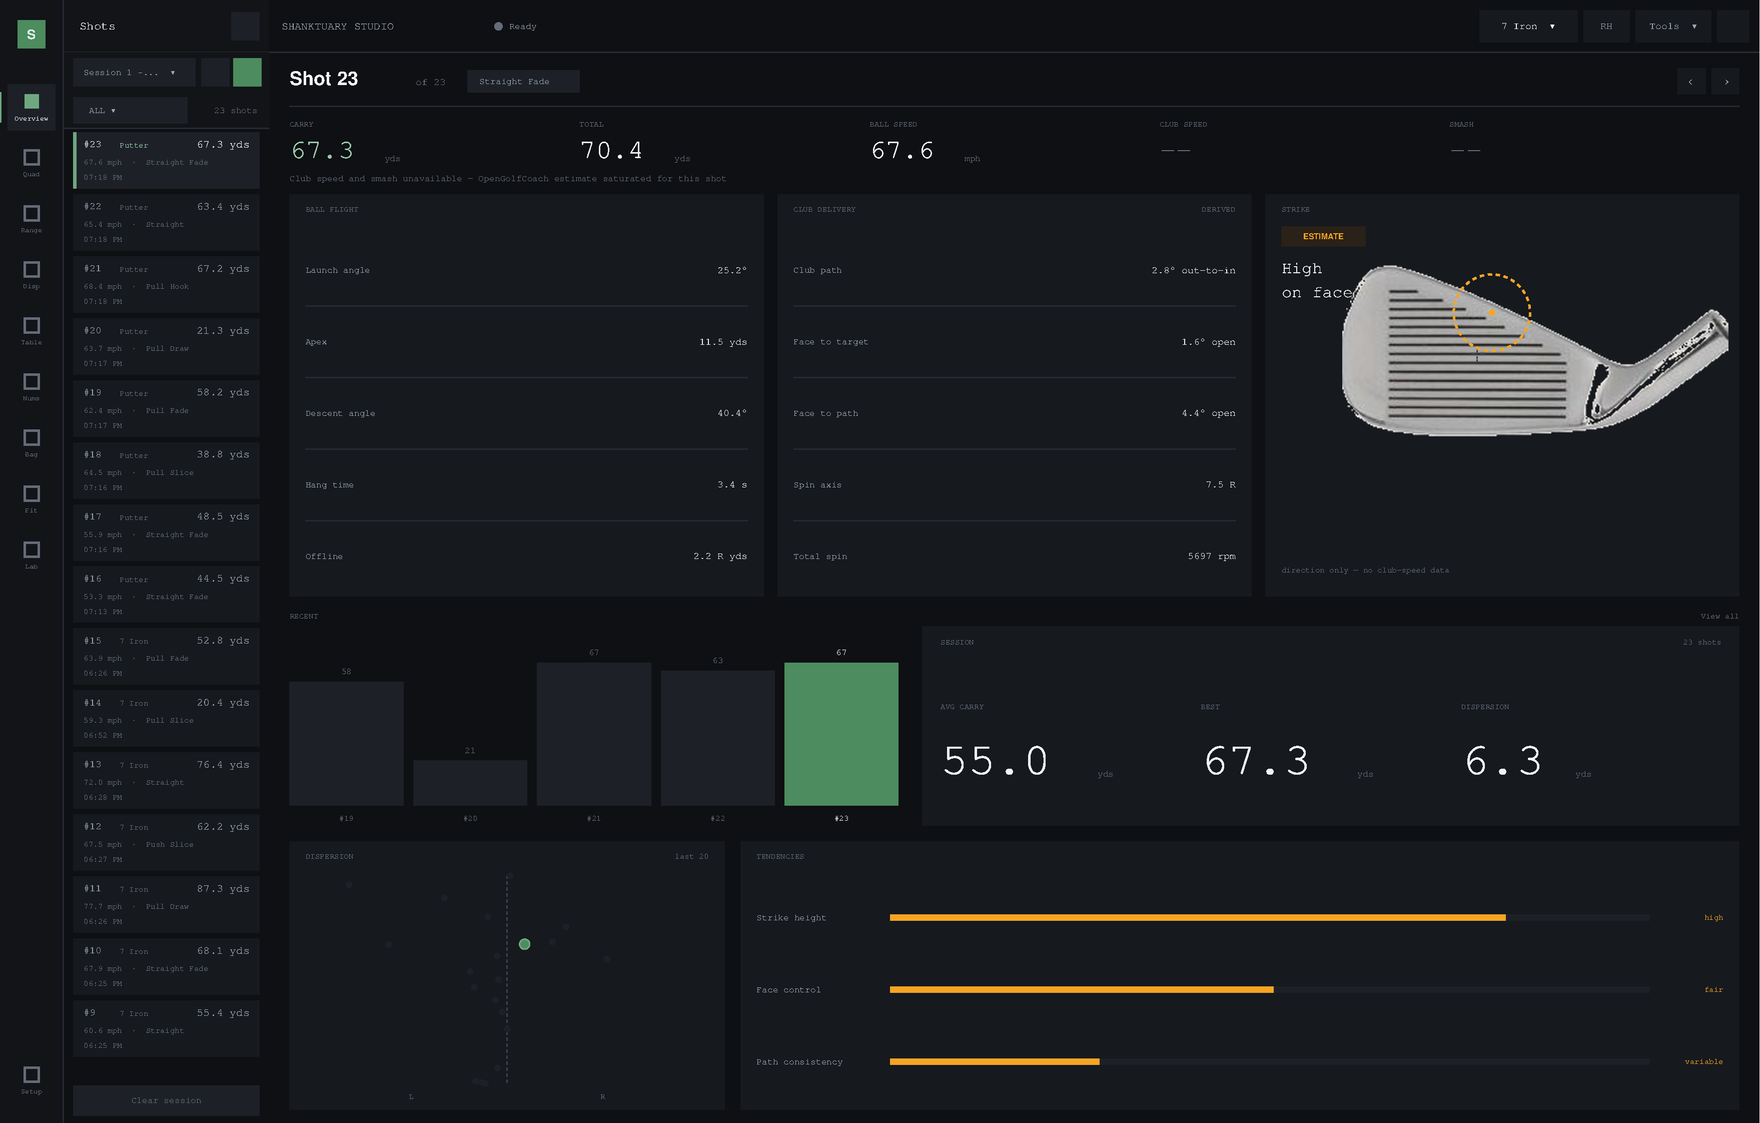
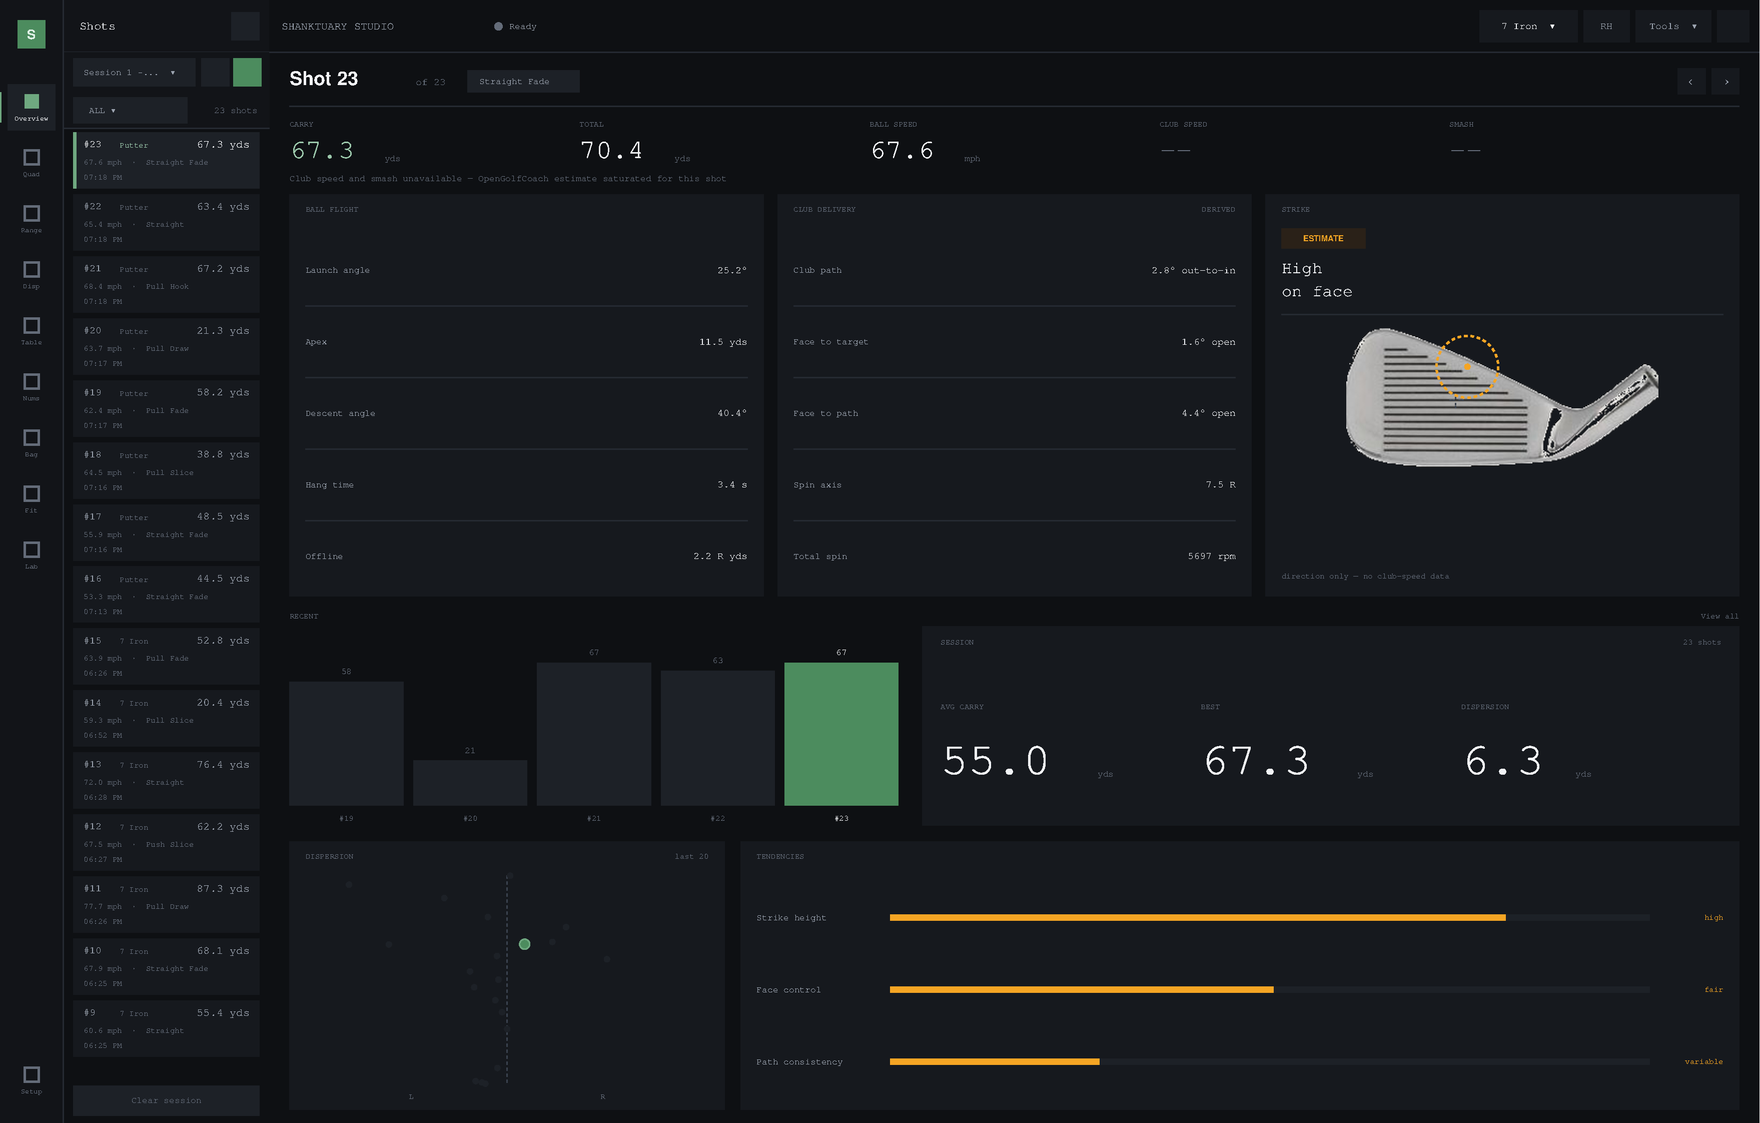
style(overview): centre the iron below the verdict, per the paint mockup
The strike card put the club off to the right of the text, which left it
competing with the verdict for the same horizontal band and kept it small.
It now follows problems/6.png: ESTIMATE chip and the plain-language verdict
top-left, a hairline under them, then the club centred across the full card
width in the space that remains.

Sizing is bounded on BOTH axes now. iron_face.png is 290x220, so it renders
1.32x wider than tall and a height that fit vertically could still overflow
the card horizontally; the width constraint is applied explicitly rather
than assumed away.

Changed region(s): [[0.75, 0.2182, 1.0, 0.4363], [0.7812, 0.4987, 0.8125, 0.5298]]

diff --git a/shanktuary_performance_studio.py b/shanktuary_performance_studio.py
@@ -4193,25 +4193,42 @@ class ShanktuaryApp:
                                 fill=theme.TEXT_3, font=("Helvetica", 8),
                                 anchor="w")
         head, detail, hcol = self.summarize_strike(self.current_shot)
+
+        # Verdict block sits top-left: chip, then the plain-language answer.
+        # The club is the hero, so it gets the whole width below rather than
+        # being squeezed beside the text.
+        ty = y + 34
         if hcol == theme.WARN:
-            self.canvas.create_rectangle(sx0 + 16, y + 32, sx0 + 100, y + 52,
+            self.canvas.create_rectangle(sx0 + 16, ty, sx0 + 100, ty + 20,
                                          fill="#2A2118", outline="")
-            self.canvas.create_text(sx0 + 58, y + 42, text="ESTIMATE",
+            self.canvas.create_text(sx0 + 58, ty + 10, text="ESTIMATE",
                                     fill=theme.WARN,
                                     font=("Helvetica", 8, "bold"),
                                     anchor="center")
+            ty += 28
         for li, part in enumerate(head.split(" ", 1) if " " in head else [head]):
-            self.canvas.create_text(sx0 + 16, y + 74 + li * 24, text=part,
+            self.canvas.create_text(sx0 + 16, ty + 12 + li * 23, text=part,
                                     fill=theme.TEXT, font=("Helvetica", 17),
                                     anchor="w")
-        self.canvas.create_text(sx0 + 16, y + card_h - 26, text=detail,
+        text_bot = ty + 12 + 23 * (2 if " " in head else 1)
+
+        self.canvas.create_line(sx0 + 16, text_bot, sx1 - 16, text_bot,
+                                fill=theme.HAIRLINE)
+        self.canvas.create_text(sx0 + 16, y + card_h - 20, text=detail,
                                 fill=theme.TEXT_3, font=("Helvetica", 8),
                                 anchor="w")
-        # Face scales with the card -- it was pinned at 92px, so a taller
-        # window grew the card around a stamp-sized club.
-        face_h = max(110, min(card_h - 96, card_w * 0.62))
-        self._draw_overview_face(sx1 - face_h * 0.62 - 22,
-                                 y + card_h / 2 + 12, face_h)
+
+        # Face centred in the space between the verdict block and the footer,
+        # sized to whichever of width/height is the real constraint.
+        face_top = text_bot + 10
+        face_bot = y + card_h - 34
+        # iron_face.png is 290x220, i.e. 1.32x wider than tall, so a height
+        # that fits vertically can still overflow the card width.
+        FACE_ASPECT = 290.0 / 220.0
+        face_h = max(96, min(face_bot - face_top,
+                             (card_w - 40) / FACE_ASPECT))
+        self._draw_overview_face((sx0 + sx1) / 2,
+                                 (face_top + face_bot) / 2, face_h)
         y += card_h + 20
 
         # ---- recent strip + session summary --------------------------------
